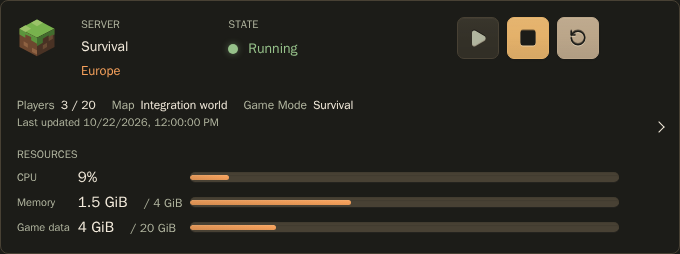
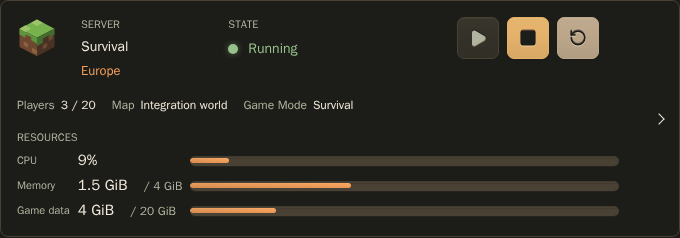
fix: show integration state below server table rows

diff --git a/web/src/pages/ServersPage.tsx b/web/src/pages/ServersPage.tsx
@@ -24,14 +24,14 @@ import { useCollection } from "../hooks/useCollection";
 import { ServerDrawer } from "../drawers/ServerDrawer";
 import { useServerRuntime } from "../hooks/useServerRuntime";
 import "./servers.css";
-import { Table, TableRow } from "../components/table/Table";
+import { Table } from "../components/table/Table";
 import { ServerDetailsDrawer } from "../drawers/ServerDetailsDrawer";
 import { useMonitoring } from "../hooks/useMonitoring";
 import { ResourceReadings } from "../components/metrics/ResourceReadings";
 import { GameStateReadings } from "../components/servers/GameStateReadings";
 import { ServerState } from "../components/servers/ServerState";
 import { GameArt } from "../components/media/GameArt";
-import "../components/servers/server-table.css";
+import { ServerTableRow } from "../components/servers/ServerTableRow";
 import { ServerQuickControls } from "../components/servers/ServerQuickControls";
 import { PortGroups } from "../components/network/PortGroups";
 import { NavigationIcon } from "../components/navigation/NavigationIcon";
@@ -363,7 +363,12 @@ export function ServersPage() {
                 />
               );
               return (
-                <TableRow key={server.id} onOpen={() => setDetails(server)}>
+                <ServerTableRow
+                  key={server.id}
+                  onOpen={() => setDetails(server)}
+                  gameReadings={monitored?.game && gameReadings}
+                  columnCount={hasGameArt ? 7 : 6}
+                >
                   {hasGameArt && (
                     <td className="game-art-cell">
                       <GameArt src={server.ember_art_url} />
@@ -388,7 +393,6 @@ export function ServersPage() {
                       {server.name}
                     </button>
                     <span className="row-id">{server.id}</span>
-                    <div className="game-state-table-only">{gameReadings}</div>
                   </td>
                   {monitored?.game && (
                     <td className="game-state-card-cell">{gameReadings}</td>
@@ -496,7 +500,7 @@ export function ServersPage() {
                       </ButtonLink>
                     </ServerQuickControls>
                   </td>
-                </TableRow>
+                </ServerTableRow>
               );
             })}
           </tbody>

diff --git a/e2e/game-state.spec.ts b/e2e/game-state.spec.ts
@@ -43,10 +43,25 @@ test("game state shows optional fields and hides stale values", async ({
   const readings = page.getByRole("group", { name: "Game data", exact: true });
   await expect(readings).toContainText("3 / 20");
   await expect(readings).toContainText("Integration world");
-  await expect(readings).toContainText("Last updated");
+  await expect(readings).not.toContainText("Last updated");
+  await readings.hover();
+  await expect(readings).toHaveAttribute("title", /^Last updated /);
   const card = page.getByRole("row").filter({
     has: page.getByRole("button", { name: "Open Survival", exact: true }),
   });
+  for (const [width, size] of [
+    [1400, "desktop"],
+    [1150, "narrow"],
+  ] as const) {
+    await page.setViewportSize({ width, height: 1000 });
+    await prepareScreenshot(page);
+    await expect(
+      page.getByRole("table", {
+        name: "Measured server resources",
+        exact: true,
+      }),
+    ).toHaveScreenshot(`overview-game-state-table-${size}.png`);
+  }
   await page.setViewportSize({ width: 1000, height: 1000 });
   await prepareScreenshot(page);
   await expect(card).toHaveScreenshot("overview-game-state-card.png");
@@ -54,6 +69,16 @@ test("game state shows optional fields and hides stale values", async ({
   await prepareScreenshot(page);
   await expect(card).toHaveScreenshot("overview-game-state-card-mobile.png");
   await openScreen(page, "servers", "Servers");
+  for (const [width, size] of [
+    [1400, "desktop"],
+    [1150, "narrow"],
+  ] as const) {
+    await page.setViewportSize({ width, height: 1000 });
+    await prepareScreenshot(page);
+    await expect(
+      page.getByRole("table", { name: "Game servers", exact: true }),
+    ).toHaveScreenshot(`servers-game-state-table-${size}.png`);
+  }
   await page.setViewportSize({ width: 1000, height: 1000 });
   await prepareScreenshot(page);
   await expect(
@@ -77,4 +102,7 @@ test("game state shows optional fields and hides stale values", async ({
     await expect(readings).not.toContainText("Players");
     await expect(readings).not.toContainText("Integration world");
   }
+  await readings.focus();
+  await expect(readings).toBeFocused();
+  await expect(readings).toHaveAccessibleDescription(/^Last updated /);
 });

diff --git a/web/src/pages/DashboardPage.tsx b/web/src/pages/DashboardPage.tsx
@@ -35,7 +35,7 @@ import { ResourceReadings } from "../components/metrics/ResourceReadings";
 import { GameStateReadings } from "../components/servers/GameStateReadings";
 import { ServerState } from "../components/servers/ServerState";
 import { GameArt } from "../components/media/GameArt";
-import "../components/servers/server-table.css";
+import { ServerTableRow } from "../components/servers/ServerTableRow";
 import { ServerQuickControls } from "../components/servers/ServerQuickControls";
 import { useServerRuntime } from "../hooks/useServerRuntime";
 import { MetricTile } from "../components/metrics/MetricTile";
@@ -414,8 +414,10 @@ export function DashboardPage() {
               </thead>
               <tbody>
                 {visibleServers.map((server) => (
-                  <TableRow
+                  <ServerTableRow
                     key={server.id}
+                    gameReadings={server.game && renderGameState(server)}
+                    columnCount={hasGameArt ? 7 : 6}
                     onOpen={() => {
                       window.location.hash = `servers/${encodeURIComponent(server.id)}/console`;
                     }}
@@ -450,9 +452,6 @@ export function DashboardPage() {
                           {server.spark_name}
                         </ResourceLink>
                       </span>
-                      <div className="game-state-table-only">
-                        {renderGameState(server)}
-                      </div>
                     </td>
                     {server.game && (
                       <td className="game-state-card-cell">
@@ -514,7 +513,7 @@ export function DashboardPage() {
                         onError={setServerActionError}
                       />
                     </td>
-                  </TableRow>
+                  </ServerTableRow>
                 ))}
               </tbody>
             </Table>

diff --git a/web/src/components/servers/server-table.css b/web/src/components/servers/server-table.css
@@ -2,7 +2,37 @@
   width: 12%;
 }
 
+.server-table td.game-state-card-cell {
+  display: none;
+}
+
+.server-table tbody .server-game-state-row > td {
+  border-block-start: 0;
+  padding-block: 0 12px;
+}
+
+.server-game-state-row .game-state-readings {
+  margin: 0;
+}
+
+@container (width > 48rem) {
+  .server-table tbody tr:has(+ .server-game-state-row) > td {
+    padding-block-end: 6px;
+  }
+
+  .server-table tbody tr:has(+ .server-game-state-row:hover),
+  .server-table
+    .table-row-interactive:is(:hover, :focus-within)
+    + .server-game-state-row {
+    background: var(--surface-hover);
+  }
+}
+
 @container (max-width: 48rem) {
+  .table-cards.server-table tbody .server-game-state-row {
+    display: none;
+  }
+
   .table-cards.server-table tbody tr {
     grid-template-columns: repeat(6, minmax(0, 1fr));
     column-gap: 12px;
@@ -10,6 +40,16 @@
 
   .server-table:where(.table-cards) tbody td {
     grid-column: span 3;
+  }
+
+  .table-cards.server-table tbody td.game-state-card-cell {
+    display: block;
+    grid-column: 1 / -1;
+    grid-row: 2;
+  }
+
+  .server-table .game-state-card-cell .game-state-readings {
+    margin: 0;
   }
 
   .table-cards.server-table tbody .table-primary {
@@ -30,6 +70,10 @@
 }
 
 @container (max-width: 32rem) {
+  .table-cards.server-table tbody td.game-state-card-cell {
+    grid-row: 3;
+  }
+
   .table-cards.server-table tbody tr {
     grid-template-columns: minmax(0, 1fr) max-content;
   }

diff --git a/web/src/components/servers/GameStateReadings.tsx b/web/src/components/servers/GameStateReadings.tsx
@@ -28,7 +28,9 @@ export function GameStateReadings({
     containerFresh(usage, elapsed) &&
     gameStateFresh(game, now);
   const state = available ? game.state : undefined;
-  const updated = new Date(game.updated_at * 1000).toLocaleString();
+  const updated = t("gameState.lastUpdated", {
+    time: new Date(game.updated_at * 1000).toLocaleString(),
+  });
   const labels = new Map([
     ["map", t("gameState.map")],
     ["game_mode", t("gameState.gameMode")],
@@ -38,6 +40,9 @@ export function GameStateReadings({
       className="game-state-readings"
       role="group"
       aria-label={t("gameState.gameData")}
+      title={updated}
+      aria-description={updated}
+      tabIndex={0}
     >
       {state ? (
         <dl>
@@ -78,9 +83,6 @@ export function GameStateReadings({
           {t("gameState.unavailable")}
         </span>
       )}
-      <span className="game-state-updated">
-        {t("gameState.lastUpdated", { time: updated })}
-      </span>
     </div>
   );
 }

diff --git a/web/src/components/servers/game-state-readings.css b/web/src/components/servers/game-state-readings.css
@@ -29,42 +29,6 @@
   }
 }
 
-.game-state-updated {
-  display: block;
-  color: var(--muted);
-  font-size: 11px;
-}
-
 .game-state-unavailable {
   color: var(--muted);
-}
-
-.game-state-table-only {
-  display: contents;
-}
-
-.data-table td.game-state-card-cell {
-  display: none;
-}
-
-@container (max-width: 48rem) {
-  .table-cards .game-state-table-only {
-    display: none;
-  }
-
-  .table-cards tbody td.game-state-card-cell {
-    display: block;
-    grid-column: 1 / -1;
-    grid-row: 2;
-  }
-
-  .table-cards .game-state-card-cell .game-state-readings {
-    margin: 0;
-  }
-}
-
-@container (max-width: 32rem) {
-  .table-cards tbody td.game-state-card-cell {
-    grid-row: 3;
-  }
 }

diff --git a/web/src/components/servers/ServerTableRow.tsx b/web/src/components/servers/ServerTableRow.tsx
@@ -1,0 +1,23 @@
+import type { ComponentProps, ReactNode } from "react";
+import { TableRow } from "../table/Table";
+import "./server-table.css";
+
+export function ServerTableRow({
+  gameReadings,
+  columnCount,
+  ...props
+}: ComponentProps<typeof TableRow> & {
+  gameReadings?: ReactNode;
+  columnCount: number;
+}) {
+  return (
+    <>
+      <TableRow {...props} />
+      {gameReadings && (
+        <tr className="server-game-state-row">
+          <td colSpan={columnCount}>{gameReadings}</td>
+        </tr>
+      )}
+    </>
+  );
+}
